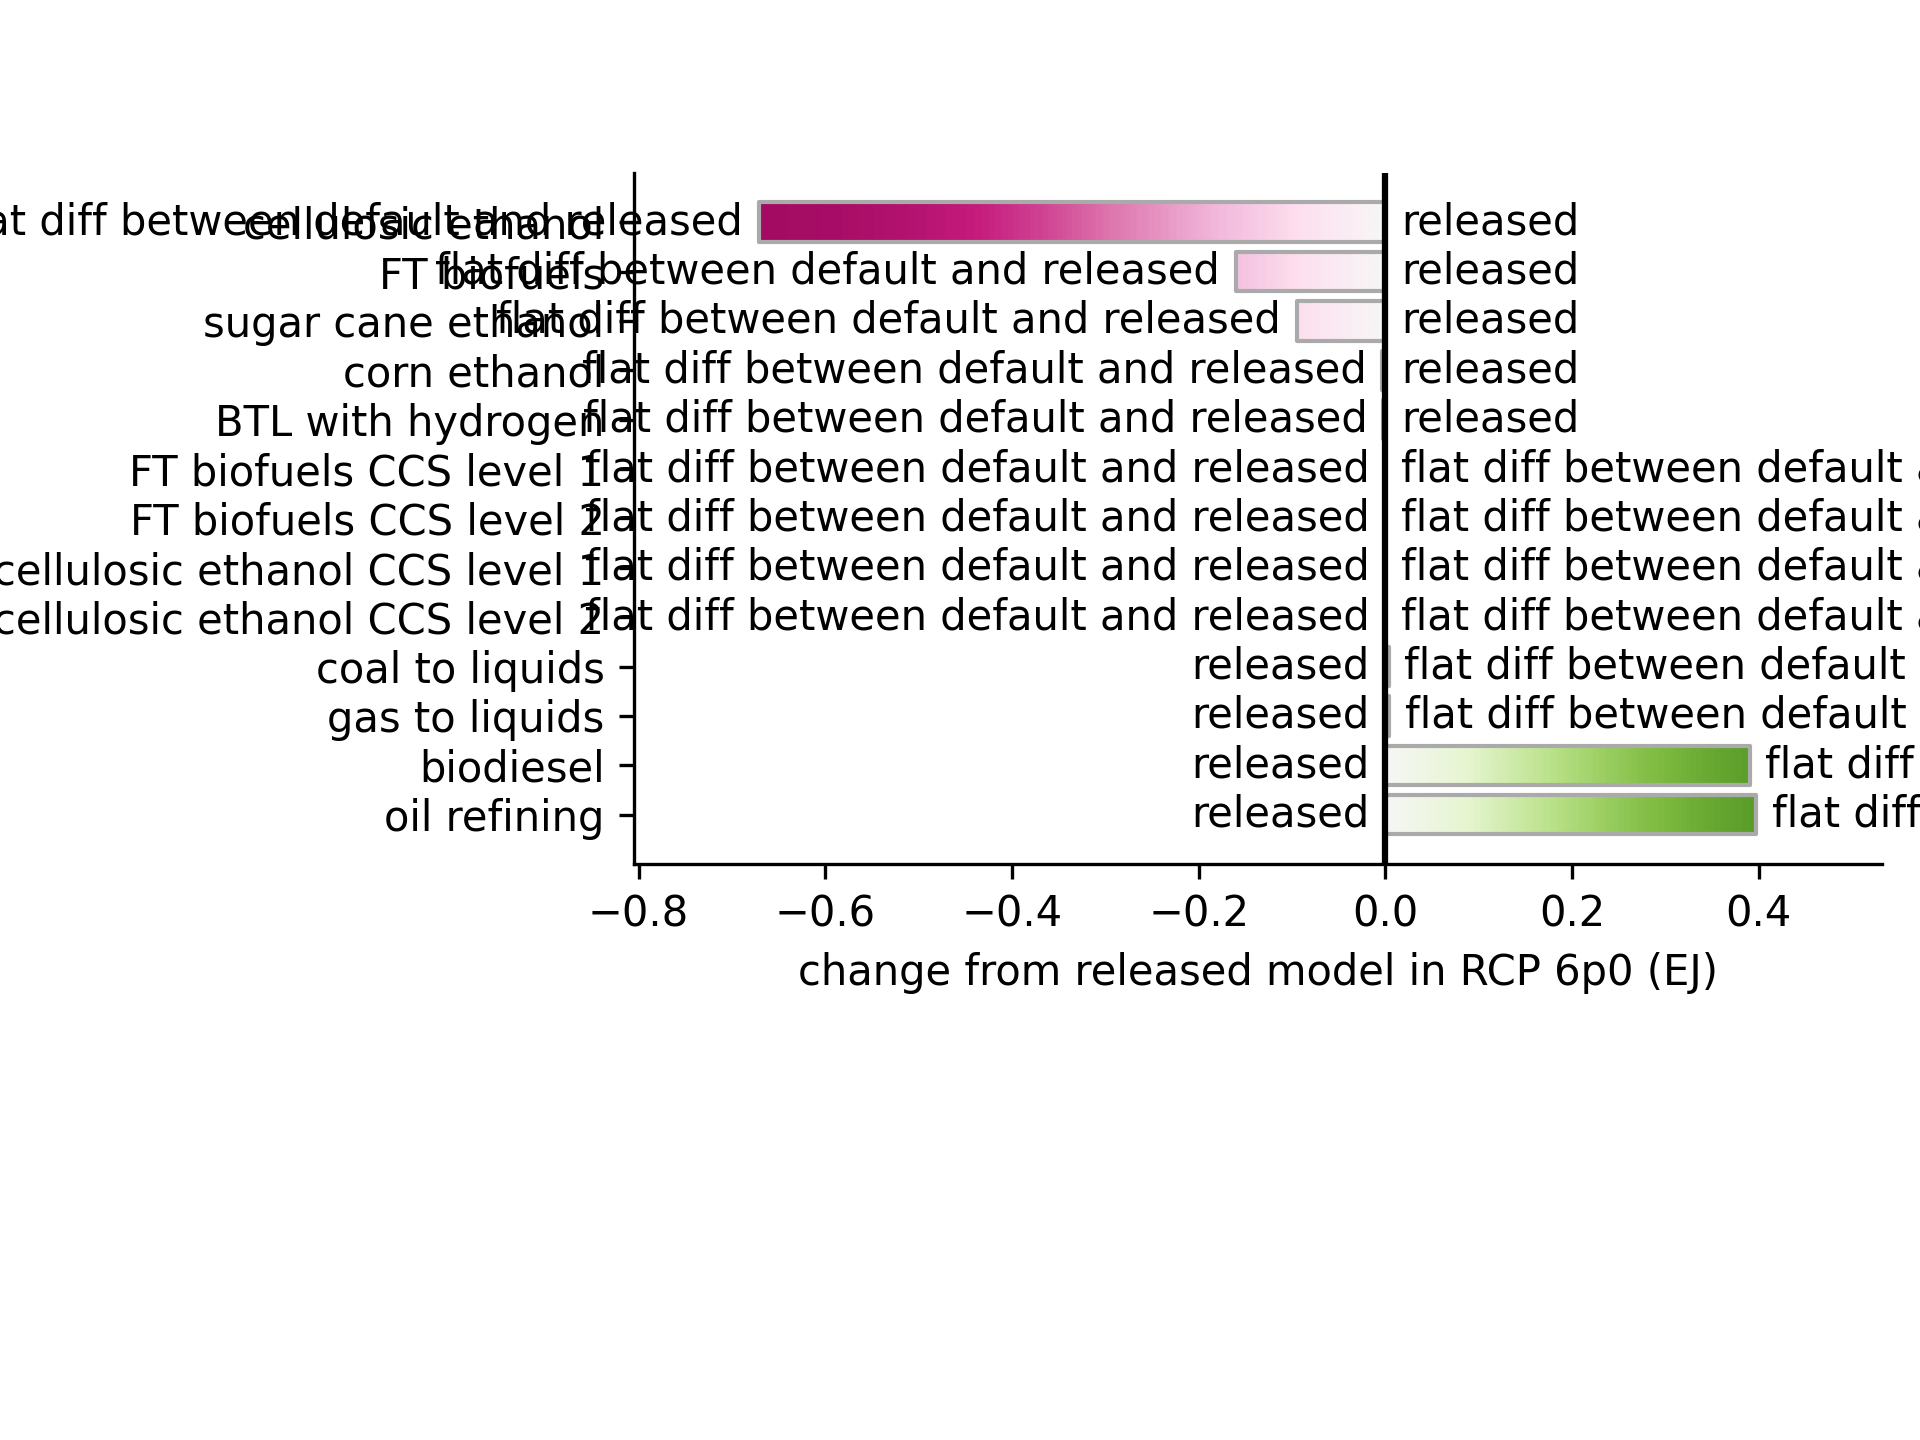
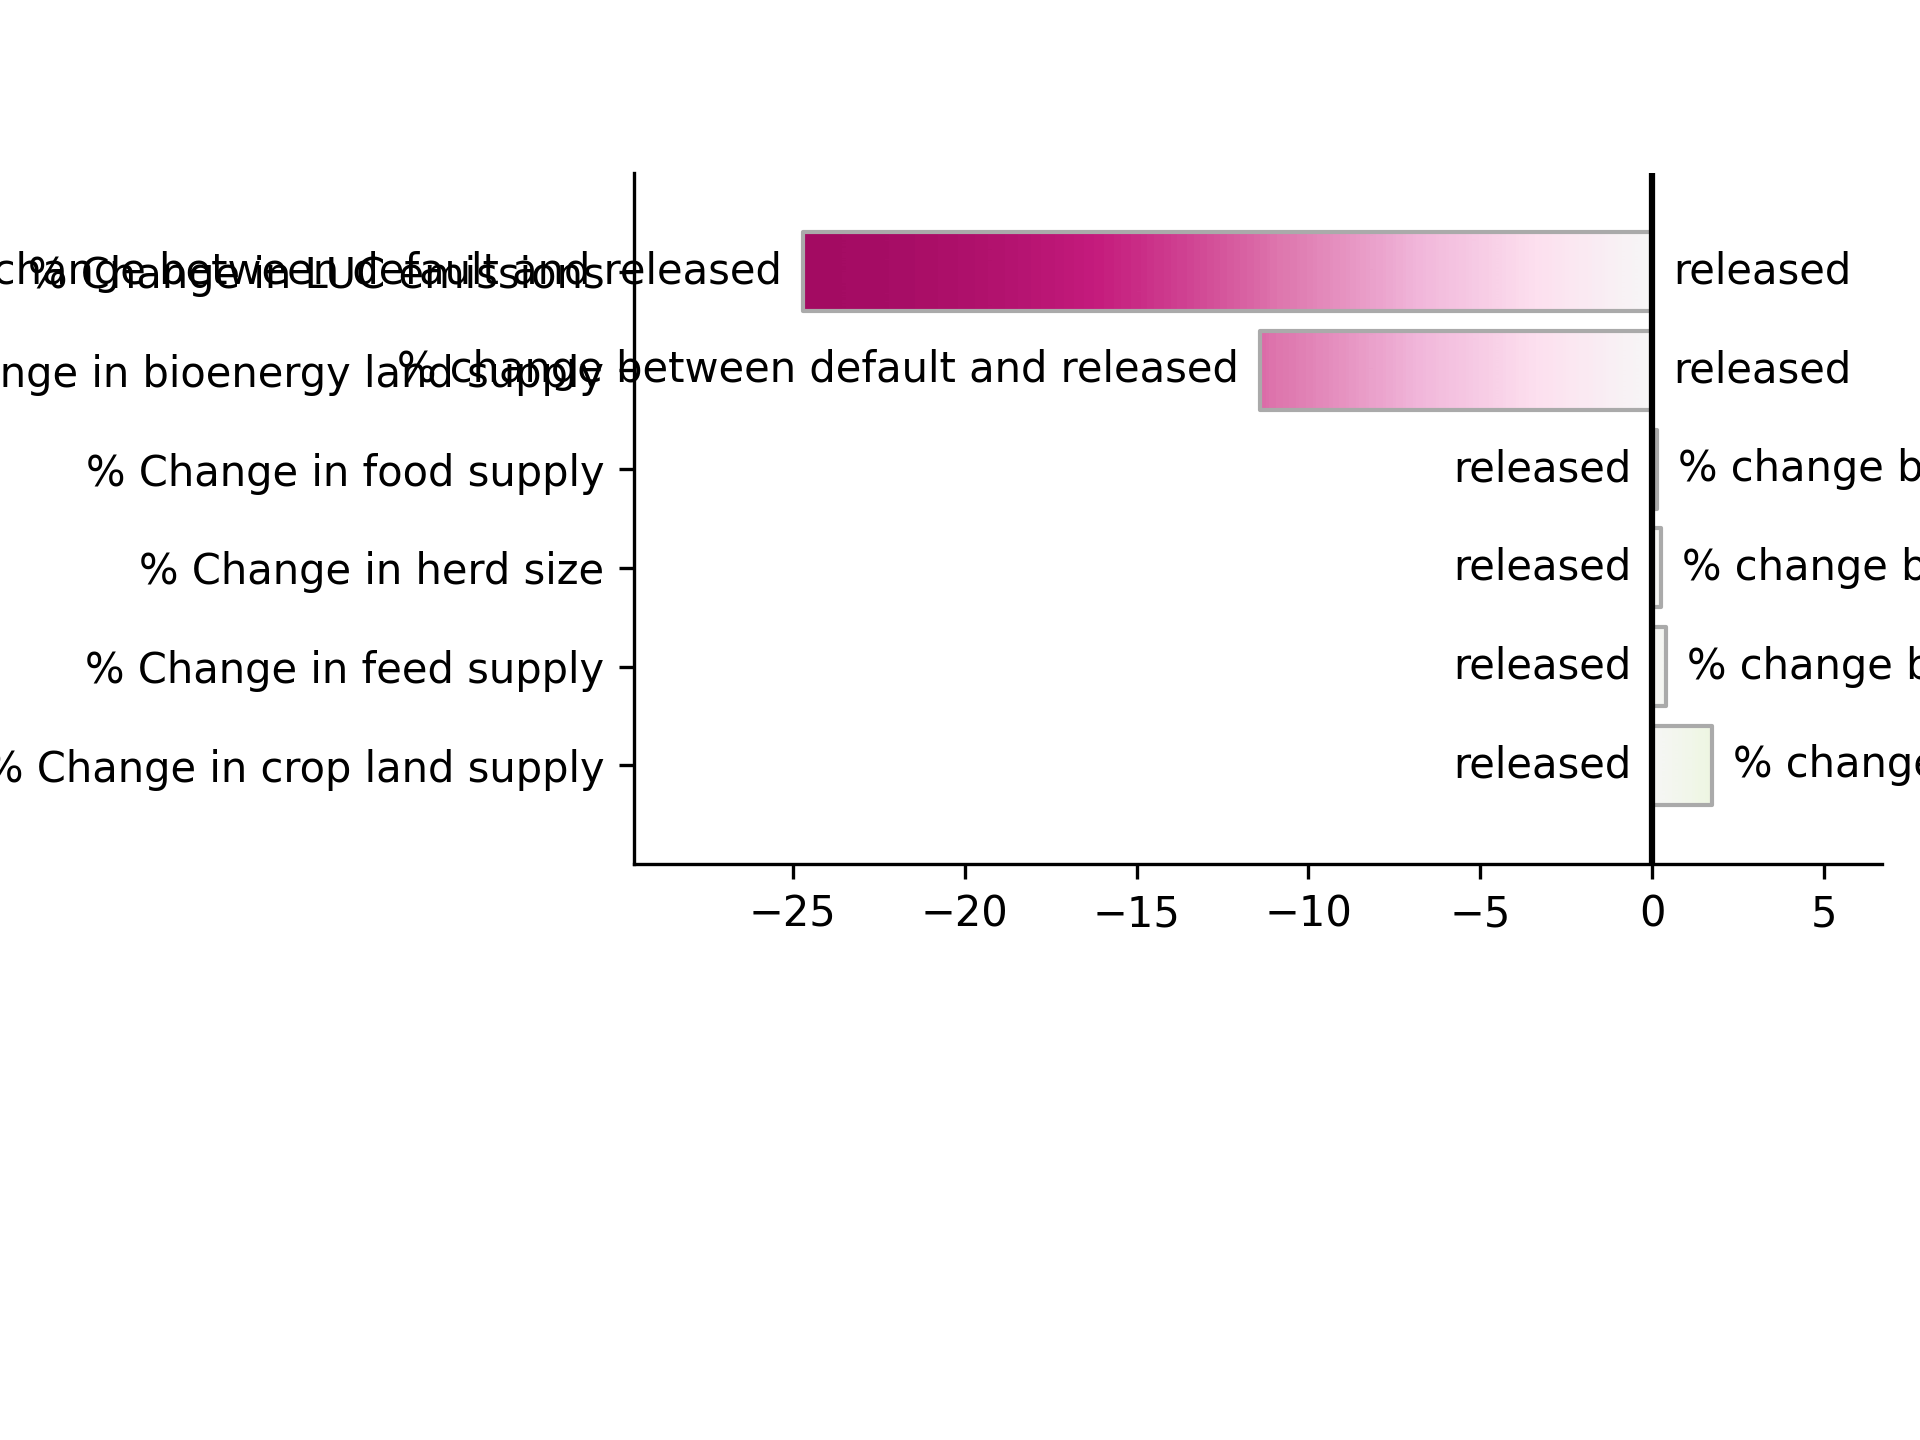
almost all sensitivity categories data acquisition

diff --git a/plotting_script.py b/plotting_script.py
@@ -697,26 +697,77 @@ def cue_figure(nonBaselineScenario, RCP, SSP, biochar_year):
     pyrolysis_Pcal = data_manipulation.get_sensitivity_data(nonBaselineScenario, "food_consumption_by_type_specific",
                                                             SSP, RCP=RCP, source="masked")
 
-    flat_diff_Pcal = data_manipulation.flat_difference(released_Pcal, pyrolysis_Pcal,
-                                                       ["GCAM", "SSP", "subsector", "subsector.1",
-                                                        "technology"]).drop_duplicates()
-    perc_diff_Pcal = data_manipulation.percent_difference(released_Pcal, pyrolysis_Pcal,
-                                                          ["GCAM", "SSP", "subsector", "subsector.1",
-                                                           "technology"]).drop_duplicates()
+    released_Pcal = released_Pcal[~released_Pcal[['GCAM']].isin(["Global"]).any(axis=1)]
+    pyrolysis_Pcal = pyrolysis_Pcal[~pyrolysis_Pcal[['GCAM']].isin(["Global"]).any(axis=1)]
+    released_Pcal = data_manipulation.group(released_Pcal, ["SSP", "Version"])
+    pyrolysis_Pcal = data_manipulation.group(pyrolysis_Pcal, ["SSP", "Version"])
 
-    # calculate difference
-    flat_diff_Pcal = flat_diff_Pcal[~flat_diff_Pcal[['GCAM']].isin(["Global"]).any(axis=1)]
-    perc_diff_Pcal = perc_diff_Pcal[~perc_diff_Pcal[['GCAM']].isin(["Global"]).any(axis=1)]
-    flat_diff_Pcal = data_manipulation.group(flat_diff_Pcal, ["Version"])
-    perc_diff_Pcal = data_manipulation.group(perc_diff_Pcal, ["Version"])
+    flat_diff_Pcal = data_manipulation.flat_difference(released_Pcal, pyrolysis_Pcal,["SSP"])
+    perc_diff_Pcal = data_manipulation.percent_difference(released_Pcal, pyrolysis_Pcal,["SSP"])
+    flat_diff_Pcal["Units"] = "Change in food supply (Pcal)"
+    perc_diff_Pcal["Units"] = "% Change in food supply"
 
     # change in biofuel lands
-    # change in croplands
-    # change in herd size
-    # change in temperature/forcing in 2100
+    released_land = data_manipulation.get_sensitivity_data(["released"], "detailed_land_allocation", SSP, RCP=RCP,
+                                                           source="original")
+    pyrolysis_land = data_manipulation.get_sensitivity_data(nonBaselineScenario, "detailed_land_allocation", SSP,
+                                                            RCP=RCP, source="masked")
+    released_land["LandLeaf"] = released_land.apply(lambda row: data_manipulation.relabel_detailed_land_use(row),
+                                                    axis=1)
+    pyrolysis_land["LandLeaf"] = pyrolysis_land.apply(lambda row: data_manipulation.relabel_detailed_land_use(row),
+                                                      axis=1)
+    pyrolysis_land = data_manipulation.group(pyrolysis_land, ["LandLeaf", "Version", "SSP"])
+    released_land = data_manipulation.group(released_land, ["SSP", "LandLeaf", "Version"])
+    pyrolysis_land_bioenergy = pyrolysis_land[pyrolysis_land[['LandLeaf']].isin(["Biomass for Energy"]).any(axis=1)]
+    released_land_bioenergy = released_land[released_land[['LandLeaf']].isin(["Biomass for Energy"]).any(axis=1)]
+    flat_diff_bioenergy = data_manipulation.flat_difference(released_land_bioenergy, pyrolysis_land_bioenergy, ["LandLeaf"])
+    perc_diff_bioenergy = data_manipulation.percent_difference(released_land_bioenergy, pyrolysis_land_bioenergy,
+                                                       ["LandLeaf"])
+    flat_diff_bioenergy["Units"] = "Change in bioenergy land supply (thousand km$^2$)"
+    perc_diff_bioenergy["Units"] = "% Change in bioenergy land supply"
 
-    flat_diffs = pd.concat([flat_diff_Pcal])
-    perc_diffs = pd.concat([perc_diff_Pcal])
+    # change in croplands
+    pyrolysis_land_crops = pyrolysis_land[pyrolysis_land[['LandLeaf']].isin(["Crops"]).any(axis=1)]
+    released_land_crops = released_land[released_land[['LandLeaf']].isin(["Crops"]).any(axis=1)]
+    flat_diff_crops = data_manipulation.flat_difference(released_land_crops, pyrolysis_land_crops, ["LandLeaf"])
+    perc_diff_crops = data_manipulation.percent_difference(released_land_crops, pyrolysis_land_crops,
+                                                       ["LandLeaf"])
+    flat_diff_crops["Units"] = "Change in crop land supply (thousand km$^2$)"
+    perc_diff_crops["Units"] = "% Change in crop land supply"
+
+    # change in herd size
+    released_supply = data_manipulation.get_sensitivity_data(["released"], "supply_of_all_markets", SSP, RCP=RCP,
+                                                             source="original")
+    pyrolysis_supply = data_manipulation.get_sensitivity_data(nonBaselineScenario, "supply_of_all_markets", SSP,
+                                                              RCP=RCP, source="masked")
+    feed = ["FodderHerb_Residue", "FeedCrops", "Pasture_FodderGrass", "Scavenging_Other"]  # the different feed types
+    released_feed = released_supply[released_supply[['product']].isin(feed).any(axis=1)]
+    pyrolysis_feed = pyrolysis_supply[pyrolysis_supply[['product']].isin(feed).any(axis=1)]
+    products = ["Beef", "Dairy", "SheepGoat", "Pork", "Poultry"]  # the different product types
+    released_products = released_supply[released_supply[['product']].isin(products).any(axis=1)]
+    pyrolysis_products = pyrolysis_supply[pyrolysis_supply[['product']].isin(products).any(axis=1)]
+
+    released_feed = data_manipulation.group(released_feed, ["SSP", "Version"])
+    pyrolysis_feed = data_manipulation.group(pyrolysis_feed, ["SSP", "Version"])
+    released_products = data_manipulation.group(released_products, ["SSP", "Version"])
+    pyrolysis_products = data_manipulation.group(pyrolysis_products, ["SSP", "Version"])
+
+    flat_diff_feed = data_manipulation.flat_difference(released_feed, pyrolysis_feed, ["SSP"])
+    perc_diff_feed = data_manipulation.percent_difference(released_feed, pyrolysis_feed, ["SSP"])
+    flat_diff_feed["Units"] = "Change in feed supply (Mt)"
+    perc_diff_feed["Units"] = "% Change in feed supply"
+    flat_diff_animal = data_manipulation.flat_difference(released_products, pyrolysis_products,
+                                                         ["SSP"])
+    perc_diff_animal = data_manipulation.percent_difference(released_products, pyrolysis_products,
+                                                            ["SSP"])
+    flat_diff_animal["Units"] = "Change in herd size (Mt)"
+    perc_diff_animal["Units"] = "% Change in herd size"
+
+    # TODO: change in temperature/forcing in 2100
+
+    # concat data frames
+    flat_diffs = pd.concat([flat_diff_Pcal, flat_diff_luc, flat_diff_bioenergy, flat_diff_crops, flat_diff_feed, flat_diff_animal])
+    perc_diffs = pd.concat([perc_diff_Pcal, perc_diff_luc, perc_diff_bioenergy, perc_diff_crops, perc_diff_feed, perc_diff_animal])
 
     # ensure perc diff has no na
     base_version_released = "released"
@@ -724,8 +775,8 @@ def cue_figure(nonBaselineScenario, RCP, SSP, biochar_year):
     flat_diffs = flat_diffs[flat_diffs[biochar_year].notna()]  # remove .nan rows from df
 
     # create baseline scenarios of 0% change
-    baseline_perc_data = flat_diffs[flat_diffs["Version"] == flat_diffs["Version"].unique()[0]].copy(deep=True)
-    baseline_flat_data = perc_diffs[perc_diffs["Version"] == perc_diffs["Version"].unique()[0]].copy(deep=True)
+    baseline_flat_data = flat_diffs[flat_diffs["Version"] == flat_diffs["Version"].unique()[0]].copy(deep=True)
+    baseline_perc_data = perc_diffs[perc_diffs["Version"] == perc_diffs["Version"].unique()[0]].copy(deep=True)
     baseline_perc_data['Version'] = base_version_released
     baseline_flat_data['Version'] = base_version_released
     for j in c.GCAMConstants.x:
@@ -733,7 +784,7 @@ def cue_figure(nonBaselineScenario, RCP, SSP, biochar_year):
         baseline_perc_data[str(j)] = 0
 
     perc_diffs = pd.concat([perc_diffs, baseline_perc_data]).reset_index()
-    flat_diffs = pd.concat([flat_diffs, baseline_perc_data]).reset_index()
+    flat_diffs = pd.concat([flat_diffs, baseline_flat_data]).reset_index()
 
     # plot products
     plotting.sensitivity(flat_diffs, RCP, base_version_released, biochar_year, "Units", "Version", nonBaselineScenario)
